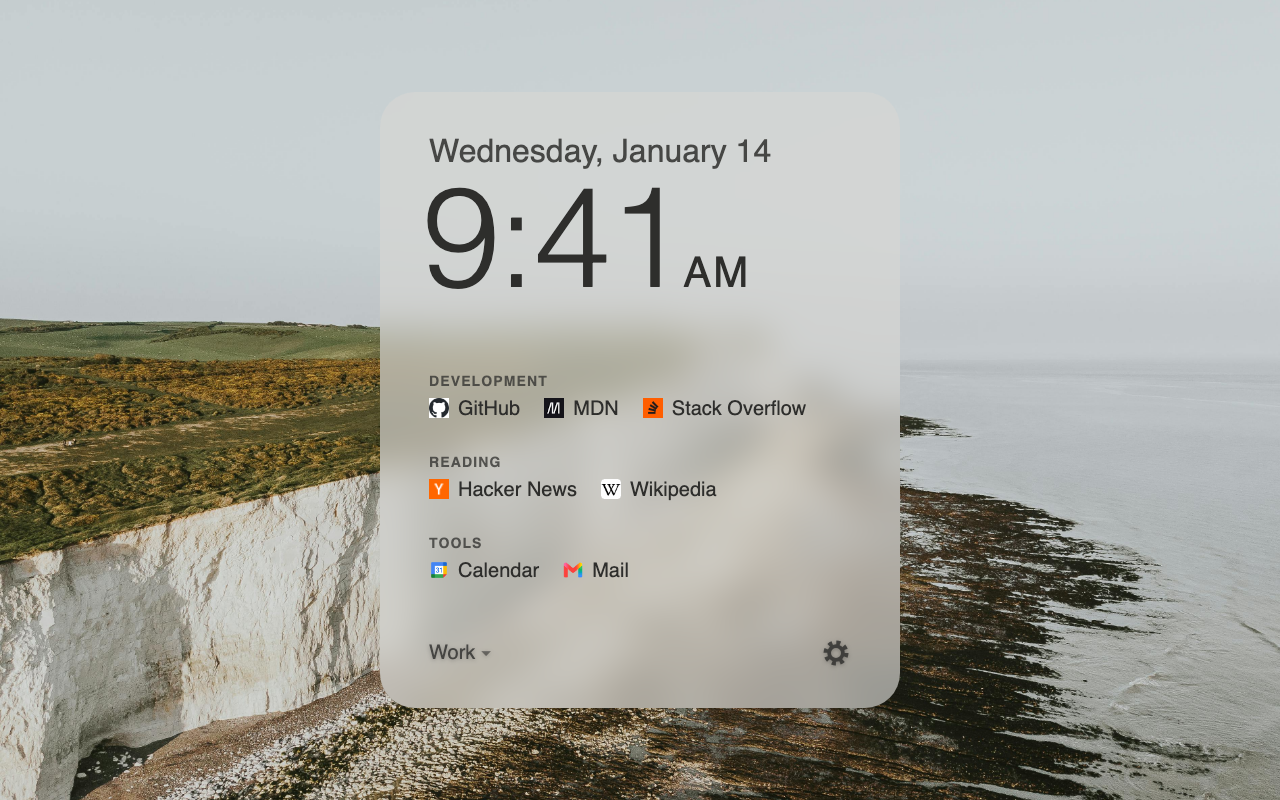
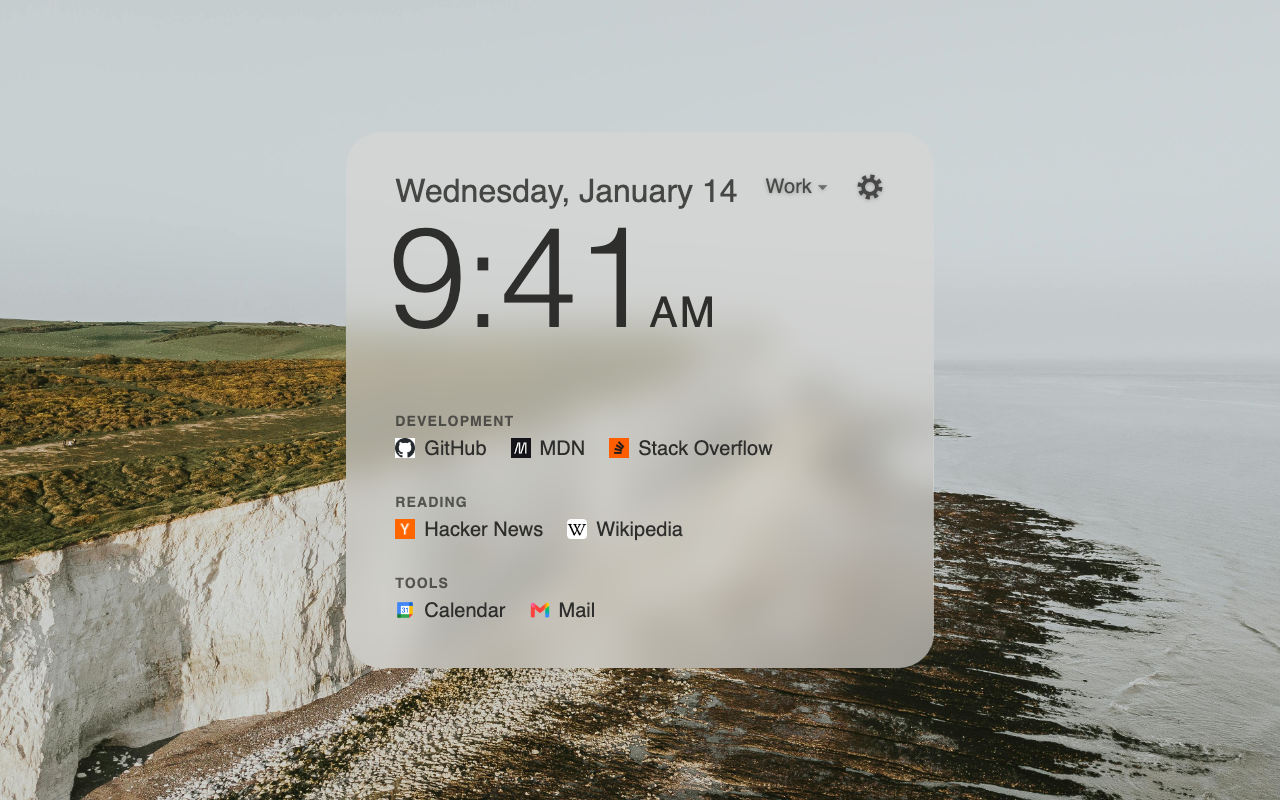
Keep the controls in the top-right corner in Center too
Center put the set switcher and gear in a footer, except with links off,
when the gear jumped to the top right. The controls now always sit in
the panel's top-right corner, as they do in Corners: the panel is a grid
with the clock and controls sharing the top row and the links
full-width below, so the clock always leaves room for the controls
however wide the set name is. The footer and its special cases go away.

The set menu now drops down over the clock, so it sits on top and
stacks the panel color to stay near-opaque (a nested backdrop blur
can't see through the panel's own).

Regenerates the store screenshots.

Changed region(s): [[0.25, 0.4062, 0.75, 0.9062], [0.2812, 0.1562, 0.6875, 0.4062], [0.6875, 0.5, 0.75, 0.5625]]

diff --git a/panels.css b/panels.css
@@ -179,8 +179,7 @@ body.nothing-shown .top-controls {
    photo between them whenever they landed on fractional pixels (browser
    zoom, the scaled settings preview, the size slider). */
 body[data-layout="center"] {
-  /* the links' text inset from the panel edge; the clock and footer line up
-     with it */
+  /* the links' text inset from the panel edge; the clock lines up with it */
   --inset: calc(var(--space-4) + var(--link-pad-x));
 
   display: grid;
@@ -189,17 +188,21 @@ body[data-layout="center"] {
   /* keeps the panel off the window's edges when it's as tall as the window */
   padding: var(--space-3);
 
+  /* Grid: the clock with the controls in the top-right corner beside it,
+     and the links full-width below. The controls keep that corner whatever
+     is shown, like they do in Corners. */
   & .stack {
     position: relative;
-    display: flex;
-    flex-direction: column;
+    display: grid;
+    grid-template-columns: minmax(0, 1fr) auto;
+    grid-template-rows: auto minmax(0, 1fr);
     /* steady width, so toggling seconds, date or links doesn't resize the
        panel (or make the layout animation lurch) */
     min-width: calc(26rem * var(--panel-scale));
     max-width: calc(100vw - 2 * var(--space-3));
     max-height: 100%;
     /* when the panel is taller than the window, only the links scroll, so
-       the clock and the footer controls stay in view */
+       the clock and the controls stay in view */
     overflow: hidden;
     border-radius: var(--panel-radius);
     background: var(--panel-background);
@@ -217,28 +220,22 @@ body[data-layout="center"] {
 
   /* .stack > so it outranks the .stack > .panel reset above */
   & .stack > .link-groups {
+    grid-area: 2 / 1 / 3 / 3;
     padding: var(--space-5) var(--space-4) var(--space-4);
-    flex: 1 1 auto;
     min-height: 0;
     overflow: auto;
   }
 
-  /* Without the clock above, the links open the panel */
+  /* Without the clock above, the links sit just under the controls row */
   &.no-clock .stack > .link-groups {
-    padding-top: var(--space-4);
-  }
-
-  /* Only the links give up height; the clock and footer keep theirs */
-  & .clock,
-  & .top-controls {
-    flex-shrink: 0;
+    padding-top: var(--space-2);
   }
 
   /* Lock-screen clock: the date on its own line above a large, light time,
      left-aligned with the links so the panel reads as one card */
   & .clock {
-    order: -1;
-    padding: var(--space-4) var(--inset) 0;
+    grid-area: 1 / 1;
+    padding: var(--space-4) var(--space-2) 0 var(--inset);
 
     & > span {
       display: flex;
@@ -279,36 +276,33 @@ body[data-layout="center"] {
     letter-spacing: 0.05em;
   }
 
-  /* Footer row: set switcher on the left under the links, gear on the right */
+  /* Controls in the top-right corner; the offsets allow for the buttons'
+     own boxes, so the gear's glyph sits the text inset from the edges */
   & .top-controls {
-    order: 1;
-    padding: 0 calc(var(--inset) - 0.5rem) calc(var(--space-4) - 0.5rem);
-    padding-left: calc(var(--inset) - var(--switcher-pad-x));
+    grid-area: 1 / 2;
+    align-self: start;
+    padding: calc(var(--space-4) - 0.5rem) calc(var(--inset) - 0.5rem) 0 0;
   }
 
-  /* No links: nothing to switch, so the gear tucks into the panel's top
-     right corner instead of sitting alone under the clock */
-  &.no-links .top-controls {
-    position: absolute;
-    top: calc(var(--space-4) - 0.5rem);
-    right: calc(var(--inset) - 0.5rem);
-    padding: 0;
-  }
-
-  /* ...and the clock leaves room for it, so a long date never runs under
-     the gear */
   &.no-links .clock {
     padding-bottom: var(--space-4);
-    padding-right: calc(var(--inset) + 2.5rem);
   }
 
-  /* Open upward: the panel clips its overflow, so a menu hanging below it
-     would be cut off */
+  /* Drops down over the clock and links, right-aligned under the switcher.
+     A backdrop blur can't see through the panel's own blur, so the menu
+     stacks the translucent panel color three times to stay near-opaque and
+     keep the text underneath from showing through. */
+  & .top-controls {
+    z-index: 3;
+  }
+
   & .set-switcher-menu {
-    top: auto;
-    right: auto;
-    left: 0;
-    bottom: calc(100% + 0.5rem);
+    right: 0;
+    background:
+      linear-gradient(var(--panel-background), var(--panel-background)),
+      linear-gradient(var(--panel-background), var(--panel-background)),
+      var(--panel-background);
+    box-shadow: 0 0.5rem 1.5rem #0004;
   }
 }
 
